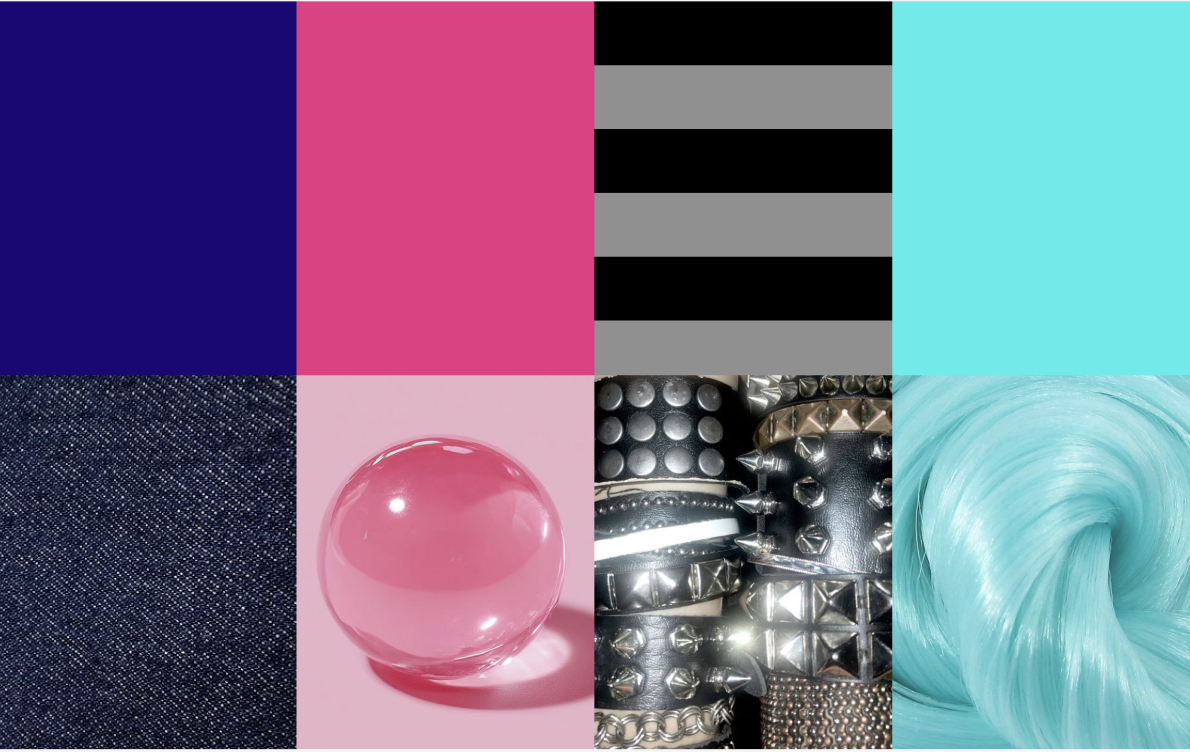
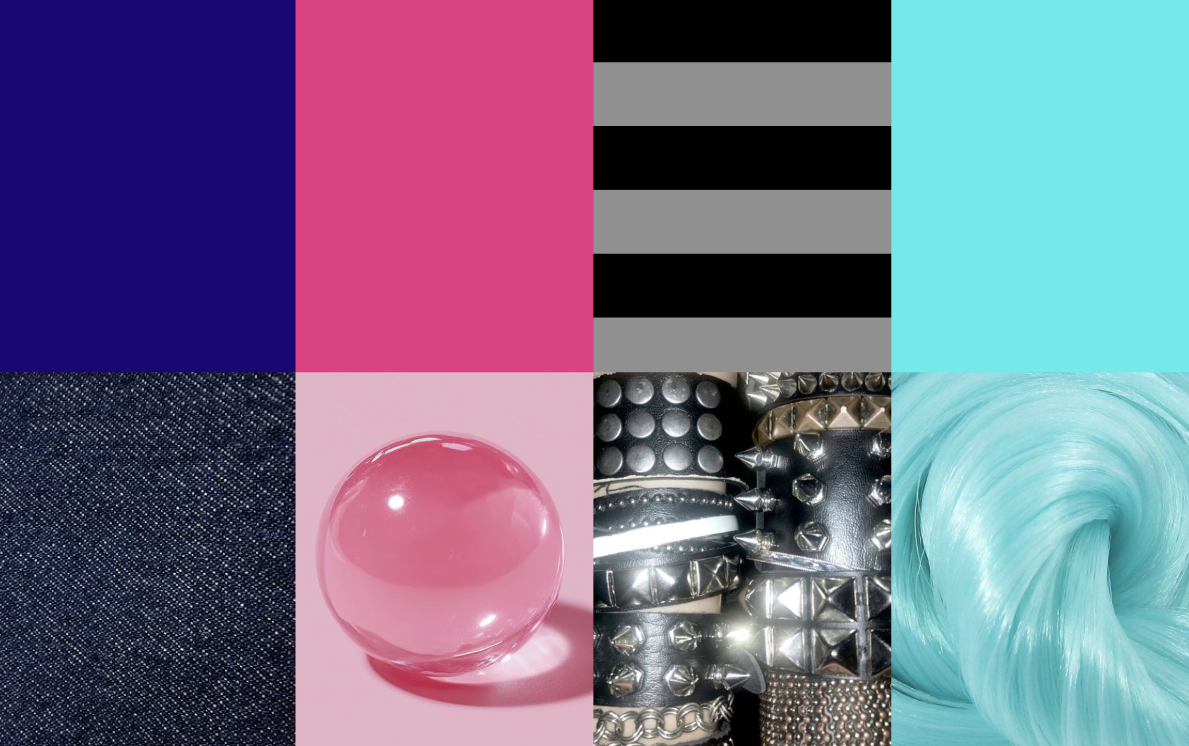
gallery modal for big picture view

diff --git a/app/src/components/gallery/galleryModal.ts b/app/src/components/gallery/galleryModal.ts
@@ -1,0 +1,141 @@
+import { closeModal, initModals, openModal } from "@/components/modal/modal.ts";
+
+export const GALLERY_MODAL_ID = "galleryModal";
+export const GALLERY_IMAGE_PARAM = "image";
+
+const INIT_KEY = "galleryModalInit";
+
+function getModal() {
+  return document.querySelector<HTMLDialogElement>(
+    `dialog[data-modal-id="${GALLERY_MODAL_ID}"]`,
+  );
+}
+
+function getModalImage() {
+  return document.getElementById("gallery-modal-image") as HTMLImageElement | null;
+}
+
+function getModalCaption() {
+  return document.getElementById("gallery-modal-caption") as HTMLElement | null;
+}
+
+function getGalleryItem(index: number) {
+  const button = document.querySelector<HTMLElement>(
+    `[data-gallery-item="${index}"]`,
+  );
+  if (!button) return null;
+
+  const img = button.querySelector("img");
+  if (!img) return null;
+
+  return {
+    src: img.currentSrc || img.src,
+    caption: button.querySelector(".caption")?.textContent?.trim() || img.alt || "",
+  };
+}
+
+function getGalleryItemCount() {
+  return document.querySelectorAll("[data-gallery-item]").length;
+}
+
+function setItemParam(index: number | null, replace = false) {
+  const url = new URL(window.location.href);
+  if (index === null) {
+    url.searchParams.delete(GALLERY_IMAGE_PARAM);
+  } else {
+    url.searchParams.set(GALLERY_IMAGE_PARAM, String(index));
+  }
+
+  const next = `${url.pathname}${url.search}${url.hash}`;
+  if (replace) {
+    window.history.replaceState({ galleryImage: index }, "", next);
+  } else {
+    window.history.pushState({ galleryImage: index }, "", next);
+  }
+}
+
+function showImage(index: number) {
+  const item = getGalleryItem(index);
+  if (!item) return;
+
+  const img = getModalImage();
+  const caption = getModalCaption();
+  if (!img) return;
+
+  img.src = item.src;
+  img.alt = item.caption;
+
+  if (caption) {
+    if (item.caption) {
+      caption.textContent = item.caption;
+      caption.hidden = false;
+    } else {
+      caption.textContent = "";
+      caption.hidden = true;
+    }
+  }
+}
+
+function openGalleryModal(index: number, replace = false) {
+  const count = getGalleryItemCount();
+  if (index < 0 || index >= count) return;
+  if (!getGalleryItem(index)) return;
+
+  bindModalCloseListener();
+  showImage(index);
+  openModal(GALLERY_MODAL_ID);
+  setItemParam(index, replace);
+}
+
+function syncFromUrl(replace = false) {
+  const raw = new URLSearchParams(window.location.search).get(GALLERY_IMAGE_PARAM);
+  if (raw === null) {
+    if (getModal()?.open) {
+      closeModal(GALLERY_MODAL_ID);
+    }
+    return;
+  }
+
+  const index = Number.parseInt(raw, 10);
+  if (Number.isNaN(index)) return;
+
+  openGalleryModal(index, replace);
+}
+
+function handleGalleryModalClose() {
+  if (new URLSearchParams(window.location.search).has(GALLERY_IMAGE_PARAM)) {
+    setItemParam(null, true);
+  }
+}
+
+function bindModalCloseListener() {
+  const modal = getModal();
+  if (!modal || modal.dataset.galleryCloseBound === "true") return;
+
+  modal.dataset.galleryCloseBound = "true";
+  modal.addEventListener("close", handleGalleryModalClose);
+}
+
+function handleDocumentClick(e: MouseEvent) {
+  const trigger = (e.target as HTMLElement).closest<HTMLElement>(
+    "[data-gallery-item]",
+  );
+  if (!trigger) return;
+
+  const index = Number.parseInt(trigger.dataset.galleryItem ?? "", 10);
+  if (Number.isNaN(index)) return;
+
+  openGalleryModal(index);
+}
+
+export function initGalleryModal() {
+  if (document.documentElement.dataset[INIT_KEY]) return;
+  document.documentElement.dataset[INIT_KEY] = "true";
+
+  initModals();
+
+  document.addEventListener("click", handleDocumentClick);
+  window.addEventListener("popstate", () => syncFromUrl(true));
+
+  syncFromUrl(true);
+}

diff --git a/app/src/styles/gallery.css b/app/src/styles/gallery.css
@@ -7,7 +7,7 @@ body {
     display: flex;
     flex-direction: column;
     align-items: center; 
-    overflow-y: hidden;
+    overflow-y: scroll;
     
 }
 /* loading screen items */
@@ -78,6 +78,7 @@ body {
 #loading-screen.hidden {
     opacity: 0;
     visibility: hidden;
+    pointer-events: none;
     transition: opacity 0.5s ease, visibility 0s linear 0.5s;
 }
 #loading-image {
@@ -140,6 +141,7 @@ a, p {
     column-count: 5;
     column-gap: 16px;
     margin: 0;
+    overflow: visible;
 }
 @media (max-width: 1200px) {
     .masonry-grid { column-count: 3; }
@@ -156,6 +158,19 @@ a, p {
     margin-bottom: 16px;
     position: relative;
     transition: box-shadow 0.2s;
+    display: block;
+    width: 100%;
+    padding: 0;
+    border: none;
+    background: none;
+    color: inherit;
+    text-align: left;
+    font: inherit;
+    cursor: zoom-in;
+    overflow: visible;
+  }
+  .masonry-item:hover {
+    box-shadow: 0 4px 16px rgb(0 0 0 / 0.25);
   }
   .gallery-image {
     width: 100%;
@@ -180,7 +195,54 @@ a, p {
     border-radius: 0 0 8px 8px;
     transition: opacity 0.2s;
     pointer-events: none;
+    overflow: visible;
+    white-space: normal;
   }
   .masonry-item:hover .caption {
     opacity: 1;
   }
+
+dialog[data-modal-id="galleryModal"] {
+  overflow: visible;
+}
+
+dialog[data-modal-id="galleryModal"] [data-modal-panel] {
+  display: flex;
+  align-items: center;
+  justify-content: center;
+  max-width: min(900px, 92vw);
+  margin: auto;
+  overflow: visible;
+}
+
+#gallery-modal-content {
+  margin: 0;
+  display: flex;
+  flex-direction: column;
+  align-items: center;
+  gap: 0.75rem;
+  max-width: 100%;
+  overflow: visible;
+}
+
+#gallery-modal-image {
+  display: block;
+  max-width: min(900px, 92vw);
+  max-height: min(80vh, 900px);
+  width: auto;
+  height: auto;
+  object-fit: contain;
+  border-radius: 8px;
+  box-shadow: 0 8px 32px rgb(0 0 0 / 0.45);
+}
+
+#gallery-modal-caption {
+  color: #fff;
+  text-align: center;
+  font-size: 0.95rem;
+  max-width: min(900px, 92vw);
+  text-shadow: 0 1px 2px rgb(0 0 0 / 0.8);
+  overflow: visible;
+  white-space: normal;
+  overflow-wrap: break-word;
+}
